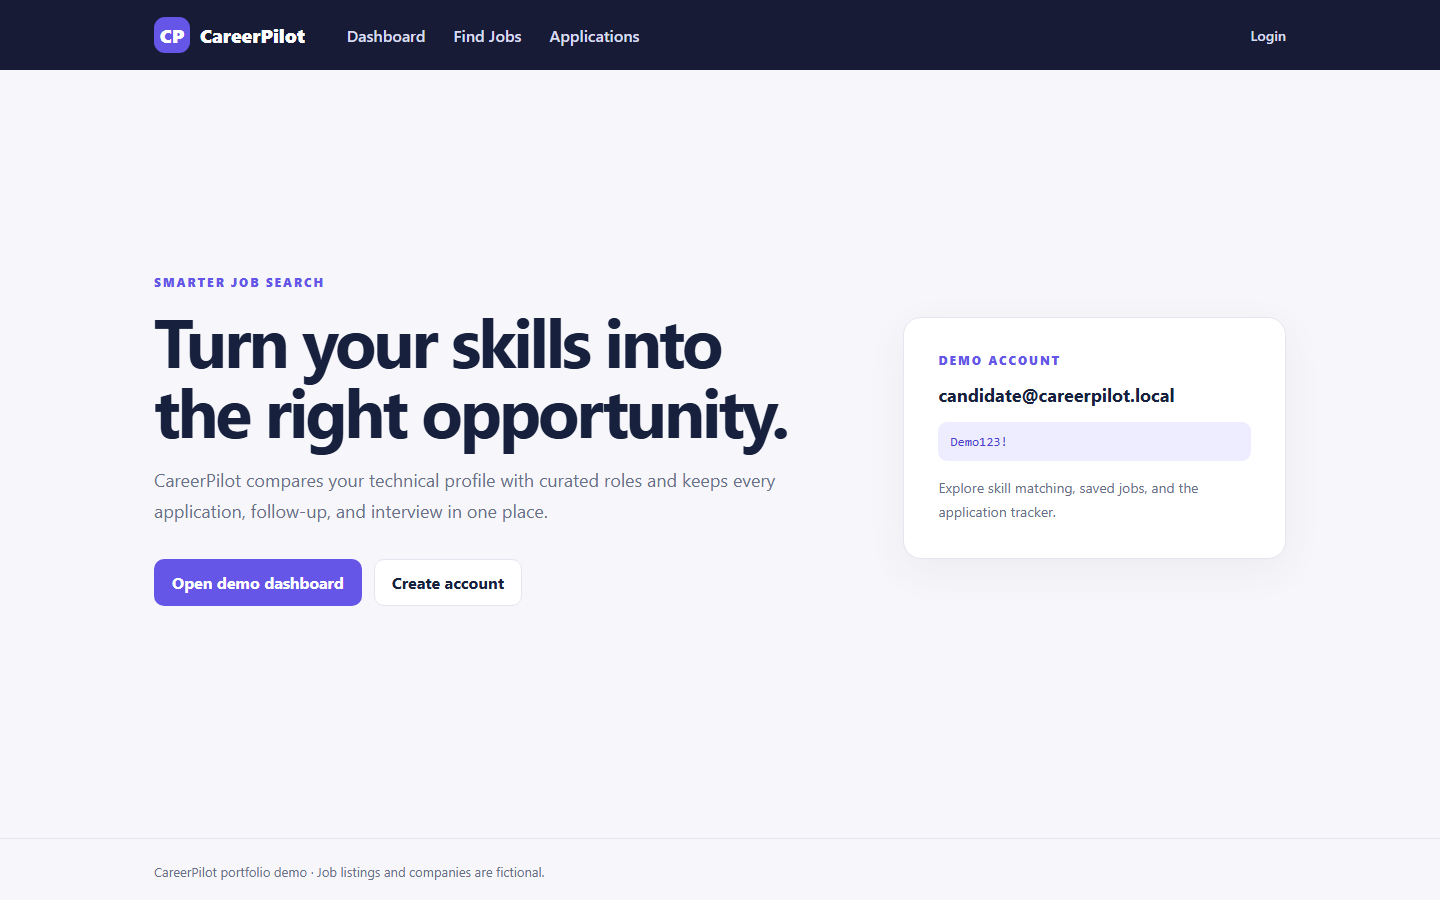
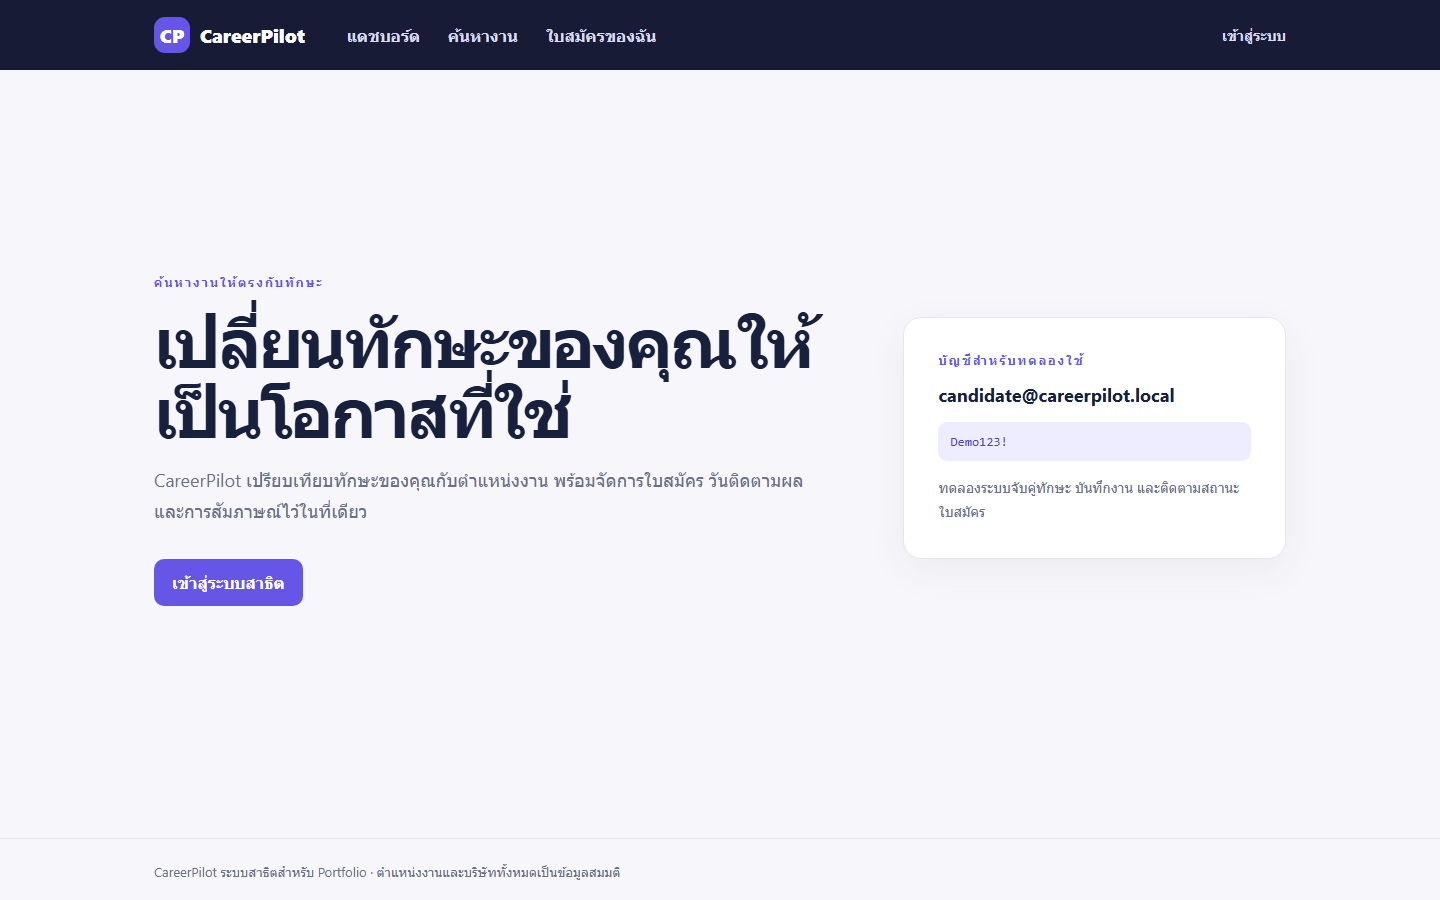
feat: localize CareerPilot in Thai

diff --git a/wwwroot/css/site.css b/wwwroot/css/site.css
@@ -1,2 +1,3 @@
 :root{--ink:#17213d;--muted:#68708a;--line:#e4e6ef;--bg:#f7f7fb;--purple:#6556e8;--purple-dark:#4e3fd0;--soft:#eeecff;--white:#fff;--green:#16855b}*{box-sizing:border-box}html{font-family:Inter,ui-sans-serif,system-ui,-apple-system,"Segoe UI",sans-serif;color:var(--ink);background:var(--bg)}body{margin:0}a{color:var(--purple);text-decoration:none}button,input,select,textarea{font:inherit}.site-header{background:#171b36;color:#fff}.nav-wrap{max-width:1180px;margin:auto;min-height:70px;padding:0 24px;display:flex;align-items:center;gap:42px}.brand{color:#fff;font-size:19px;font-weight:800;display:flex;align-items:center;gap:10px}.brand span{display:grid;place-items:center;width:36px;height:36px;border-radius:11px;background:var(--purple)}.nav-links{display:flex;gap:28px;flex:1}.nav-links a,.account-links a,.account-links button{color:#d9dcf0;font-weight:600}.account-links{display:flex;align-items:center;gap:14px;font-size:14px}.account-links form{margin:0}.account-links button{border:0;background:transparent;cursor:pointer;padding:0}.page-shell{max-width:1180px;margin:auto;padding:48px 24px}.hero{min-height:640px;display:grid;grid-template-columns:1.4fr .8fr;align-items:center;gap:80px}.hero h1,.page-heading h1{font-size:clamp(40px,5vw,68px);line-height:1.03;letter-spacing:-.045em;margin:14px 0 20px}.hero p,.page-heading p{color:var(--muted);font-size:18px;line-height:1.7;max-width:720px}.eyebrow{font-size:12px;letter-spacing:.16em;color:var(--purple);font-weight:800}.actions{display:flex;gap:12px;margin-top:32px}.button{border:1px solid transparent;border-radius:10px;padding:12px 17px;font-weight:750;cursor:pointer;display:inline-flex;justify-content:center}.primary{background:var(--purple);color:#fff}.primary:hover{background:var(--purple-dark);color:#fff}.secondary{background:#fff;color:var(--ink);border-color:var(--line)}.demo-card,.panel,.job-card,.tracker-card{background:var(--white);border:1px solid var(--line);border-radius:18px;box-shadow:0 12px 40px rgba(32,29,74,.06)}.demo-card{padding:34px;display:grid;gap:15px}.demo-card strong{font-size:18px}.demo-card code{background:var(--soft);padding:12px;border-radius:9px;color:var(--purple-dark)}.demo-card p{font-size:14px;margin:0}.page-heading{margin-bottom:32px}.page-heading h1{font-size:44px;margin-bottom:10px}.page-heading p{margin:0}.stats{display:grid;grid-template-columns:repeat(4,1fr);gap:16px;margin-bottom:24px}.stats article{background:#171b36;color:#fff;border-radius:16px;padding:24px}.stats article:nth-child(2){background:var(--purple)}.stats span{display:block;font-size:11px;letter-spacing:.12em;color:#cfd3ef}.stats strong{font-size:38px;display:block;margin-top:8px}.dashboard-grid{display:grid;grid-template-columns:1.7fr 1fr;gap:24px}.panel{padding:26px}.panel-heading,.job-title{display:flex;justify-content:space-between;align-items:flex-start;gap:18px}.panel h2,.job-card h2,.tracker-card h2{margin:6px 0;font-size:21px}.compact-job{padding:20px 0;border-top:1px solid var(--line);display:flex;justify-content:space-between;align-items:center;gap:20px}.compact-job:first-of-type{margin-top:18px}.compact-job strong,.compact-job span{display:block}.compact-job div span,.tracker-summary p,.tracker-summary>span,.job-title p{color:var(--muted);font-size:14px;margin:5px 0}.match,.status{white-space:nowrap;padding:7px 11px;border-radius:999px;background:#e8f7f0;color:var(--green);font-size:13px;font-weight:800}.skill-list{display:flex;gap:8px;flex-wrap:wrap;margin-top:18px}.skill-list span{background:var(--soft);color:var(--purple-dark);padding:7px 10px;border-radius:8px;font-size:13px;font-weight:650}.filter{display:grid;grid-template-columns:2fr 1fr 1fr auto;align-items:end;gap:15px}.filter label,.tracker-form label{display:grid;gap:7px;font-size:13px;font-weight:750}.filter input,.filter select,.tracker-form input,.tracker-form select,.tracker-form textarea,.page-shell .form-control{width:100%;border:1px solid #d9dcea;border-radius:9px;padding:11px 12px;background:#fff;color:var(--ink)}.result-count{margin:26px 2px 12px;color:var(--muted);font-weight:650}.job-list,.tracker-list{display:grid;gap:16px}.job-card{display:grid;grid-template-columns:1fr 190px;overflow:hidden}.job-main{padding:24px}.job-main>p{color:var(--muted);line-height:1.6}.job-meta{display:flex;gap:22px;margin-top:20px;font-size:13px;color:var(--muted)}.job-actions{border-left:1px solid var(--line);padding:24px;display:flex;flex-direction:column;gap:10px;justify-content:center}.job-actions a{text-align:center;font-size:13px}.tracker-card{display:grid;grid-template-columns:300px 1fr;padding:24px;gap:34px}.tracker-form{display:grid;grid-template-columns:1fr 1fr;gap:14px}.tracker-form .wide{grid-column:1/-1}.tracker-form button{justify-self:start}.empty{text-align:center}footer{border-top:1px solid var(--line);color:var(--muted);font-size:13px;margin-top:32px}footer .page-shell{padding-top:24px;padding-bottom:24px}.page-shell form[action*="Login"],.page-shell form[action*="Register"]{max-width:520px}.page-shell .btn-primary{background:var(--purple);border:0;border-radius:9px;padding:11px 16px;color:#fff}.validation-summary-errors,.text-danger{color:#b42318}.form-floating{margin-bottom:14px}.form-floating label{display:block;margin-bottom:6px;font-weight:700}
+.login-card{max-width:520px;margin:50px auto;padding:34px}.login-card h1{font-size:34px;margin:10px 0}.login-card>p{color:var(--muted)}.login-card form{display:grid;gap:9px;margin-top:22px}.login-card form>label{font-weight:700;margin-top:6px}.login-card input{width:100%;border:1px solid #d9dcea;border-radius:9px;padding:11px 12px}.login-card .remember{display:flex;align-items:center;gap:8px;font-weight:500}.login-card .remember input{width:auto}.login-card button{margin-top:8px}.demo-login{background:var(--soft);padding:14px;border-radius:10px;line-height:1.8;color:var(--purple-dark)}
 @media(max-width:800px){.nav-wrap{flex-wrap:wrap;padding-top:15px;padding-bottom:15px;gap:16px}.nav-links{order:3;width:100%;gap:18px}.account-links span{display:none}.page-shell{padding:32px 18px}.hero,.dashboard-grid,.job-card,.tracker-card{grid-template-columns:1fr}.hero{gap:24px;min-height:auto}.stats{grid-template-columns:repeat(2,1fr)}.filter{grid-template-columns:1fr}.job-actions{border-left:0;border-top:1px solid var(--line)}.tracker-form{grid-template-columns:1fr}.page-heading h1{font-size:36px}}

diff --git a/Data/SeedData.cs b/Data/SeedData.cs
@@ -25,11 +25,11 @@ public static class SeedData
         if (!await db.JobListings.AnyAsync())
         {
             db.JobListings.AddRange(
-                Job("ERP Application Support Specialist", "Siam Manufacturing", "Chonburi", "On-site", "Full-time", "฿28,000–38,000", "Support ERP users, troubleshoot incidents, and coordinate fixes with business teams.", "ERP, IT Support, SQL, Troubleshooting", 1),
-                Job("Junior .NET Developer", "Blue Orbit Solutions", "Bangkok", "Hybrid", "Full-time", "฿30,000–42,000", "Build and maintain internal business applications with the Microsoft stack.", "C#, ASP.NET Core, SQL, Git", 2),
-                Job("IT Support Engineer", "Eastern Logistics", "Chonburi", "On-site", "Full-time", "฿25,000–34,000", "Resolve hardware, software, network, and user-account issues across branch offices.", "IT Support, Troubleshooting, SQL", 3),
-                Job("Business Systems Analyst", "Rayong Parts Group", "Rayong", "Hybrid", "Full-time", "฿35,000–48,000", "Gather requirements and improve workflows between ERP and operations teams.", "ERP, SQL, Troubleshooting, Power BI", 4),
-                Job("Web Application Developer", "RemoteCraft", "Remote", "Remote", "Contract", "฿35,000–50,000", "Deliver customer-facing features and maintain modern web applications.", "JavaScript, Next.js, Git, React, TypeScript", 5));
+                Job("ผู้เชี่ยวชาญฝ่ายสนับสนุนระบบ ERP", "Siam Manufacturing", "ชลบุรี", "หน้างาน", "เต็มเวลา", "฿28,000–38,000", "ดูแลผู้ใช้งาน ERP แก้ไขเหตุขัดข้อง และประสานงานกับทีมธุรกิจเพื่อปรับปรุงระบบ", "ERP, IT Support, SQL, Troubleshooting", 1),
+                Job("นักพัฒนา .NET ระดับ Junior", "Blue Orbit Solutions", "กรุงเทพมหานคร", "ไฮบริด", "เต็มเวลา", "฿30,000–42,000", "พัฒนาและดูแลแอปพลิเคชันภายในองค์กรด้วยเทคโนโลยี Microsoft", "C#, ASP.NET Core, SQL, Git", 2),
+                Job("วิศวกร IT Support", "Eastern Logistics", "ชลบุรี", "หน้างาน", "เต็มเวลา", "฿25,000–34,000", "แก้ไขปัญหาฮาร์ดแวร์ ซอฟต์แวร์ เครือข่าย และบัญชีผู้ใช้ของสำนักงานสาขา", "IT Support, Troubleshooting, SQL", 3),
+                Job("นักวิเคราะห์ระบบธุรกิจ", "Rayong Parts Group", "ระยอง", "ไฮบริด", "เต็มเวลา", "฿35,000–48,000", "เก็บความต้องการและปรับปรุงกระบวนการทำงานระหว่างระบบ ERP กับทีมปฏิบัติการ", "ERP, SQL, Troubleshooting, Power BI", 4),
+                Job("นักพัฒนาเว็บแอปพลิเคชัน", "RemoteCraft", "ทำงานทางไกล", "รีโมต", "สัญญาจ้าง", "฿35,000–50,000", "พัฒนาฟีเจอร์สำหรับลูกค้าและดูแลเว็บแอปพลิเคชันสมัยใหม่", "JavaScript, Next.js, Git, React, TypeScript", 5));
             await db.SaveChangesAsync();
         }
 
@@ -37,8 +37,8 @@ public static class SeedData
         {
             var jobs = await db.JobListings.OrderBy(j => j.Id).Take(2).ToListAsync();
             db.JobApplications.AddRange(
-                new JobApplication { JobListingId = jobs[0].Id, UserId = user.Id, Status = ApplicationStatus.Applied, Notes = "Submitted through company career page.", FollowUpDate = DateOnly.FromDateTime(DateTime.Today.AddDays(3)), UpdatedAt = DateTime.UtcNow },
-                new JobApplication { JobListingId = jobs[1].Id, UserId = user.Id, Status = ApplicationStatus.Saved, Notes = "Review the job description before applying.", UpdatedAt = DateTime.UtcNow });
+                new JobApplication { JobListingId = jobs[0].Id, UserId = user.Id, Status = ApplicationStatus.Applied, Notes = "ส่งใบสมัครผ่านหน้าเว็บไซต์ของบริษัทแล้ว", FollowUpDate = DateOnly.FromDateTime(DateTime.Today.AddDays(3)), UpdatedAt = DateTime.UtcNow },
+                new JobApplication { JobListingId = jobs[1].Id, UserId = user.Id, Status = ApplicationStatus.Saved, Notes = "ตรวจรายละเอียดงานอีกครั้งก่อนสมัคร", UpdatedAt = DateTime.UtcNow });
             await db.SaveChangesAsync();
         }
     }

diff --git a/Areas/Identity/Pages/Account/Login.cshtml.cs b/Areas/Identity/Pages/Account/Login.cshtml.cs
@@ -1,0 +1,40 @@
+using System.ComponentModel.DataAnnotations;
+using Microsoft.AspNetCore.Authorization;
+using Microsoft.AspNetCore.Identity;
+using Microsoft.AspNetCore.Mvc;
+using Microsoft.AspNetCore.Mvc.RazorPages;
+
+namespace CareerPilot.Areas.Identity.Pages.Account;
+
+[AllowAnonymous]
+public class LoginModel(SignInManager<IdentityUser> signInManager) : PageModel
+{
+    [BindProperty] public InputModel Input { get; set; } = new();
+    [BindProperty] public string ReturnUrl { get; set; } = "/";
+
+    public void OnGet(string? returnUrl = null) => ReturnUrl = returnUrl ?? Url.Content("~/");
+
+    public async Task<IActionResult> OnPostAsync()
+    {
+        if (!ModelState.IsValid) return Page();
+
+        var result = await signInManager.PasswordSignInAsync(Input.Email, Input.Password, Input.RememberMe, lockoutOnFailure: false);
+        if (result.Succeeded) return LocalRedirect(ReturnUrl);
+
+        ModelState.AddModelError(string.Empty, "อีเมลหรือรหัสผ่านไม่ถูกต้อง");
+        return Page();
+    }
+
+    public class InputModel
+    {
+        [Required(ErrorMessage = "กรุณากรอกอีเมล")]
+        [EmailAddress(ErrorMessage = "รูปแบบอีเมลไม่ถูกต้อง")]
+        public string Email { get; set; } = "";
+
+        [Required(ErrorMessage = "กรุณากรอกรหัสผ่าน")]
+        [DataType(DataType.Password)]
+        public string Password { get; set; } = "";
+
+        public bool RememberMe { get; set; }
+    }
+}

diff --git a/Models/Domain.cs b/Models/Domain.cs
@@ -9,6 +9,19 @@ public enum ApplicationStatus
     Rejected
 }
 
+public static class ApplicationStatusLabels
+{
+    public static string ToThai(this ApplicationStatus status) => status switch
+    {
+        ApplicationStatus.Saved => "บันทึกไว้",
+        ApplicationStatus.Applied => "สมัครแล้ว",
+        ApplicationStatus.Interview => "นัดสัมภาษณ์",
+        ApplicationStatus.Offer => "ได้รับข้อเสนอ",
+        ApplicationStatus.Rejected => "ไม่ผ่านการคัดเลือก",
+        _ => status.ToString()
+    };
+}
+
 public class JobListing
 {
     public int Id { get; set; }
